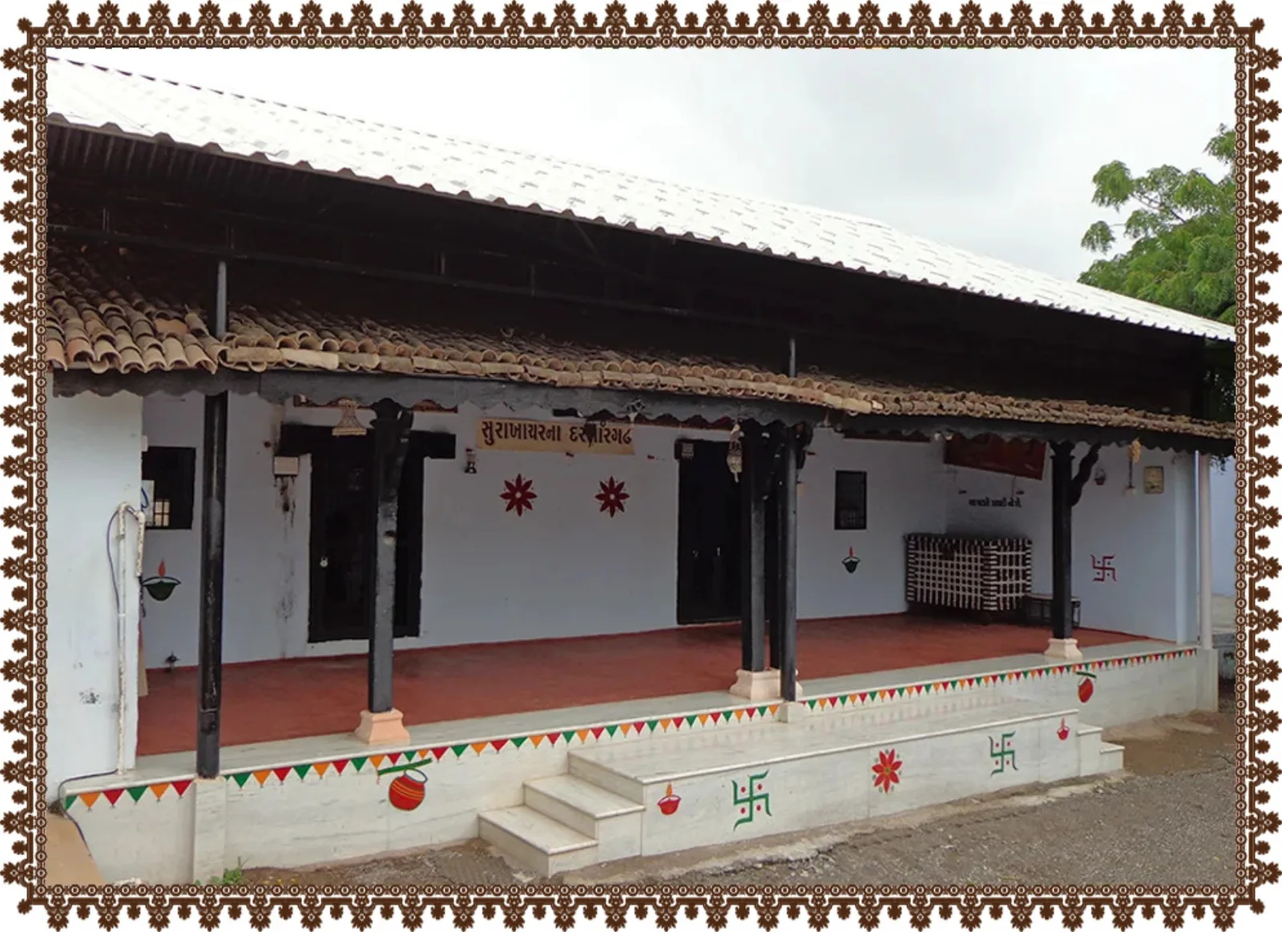
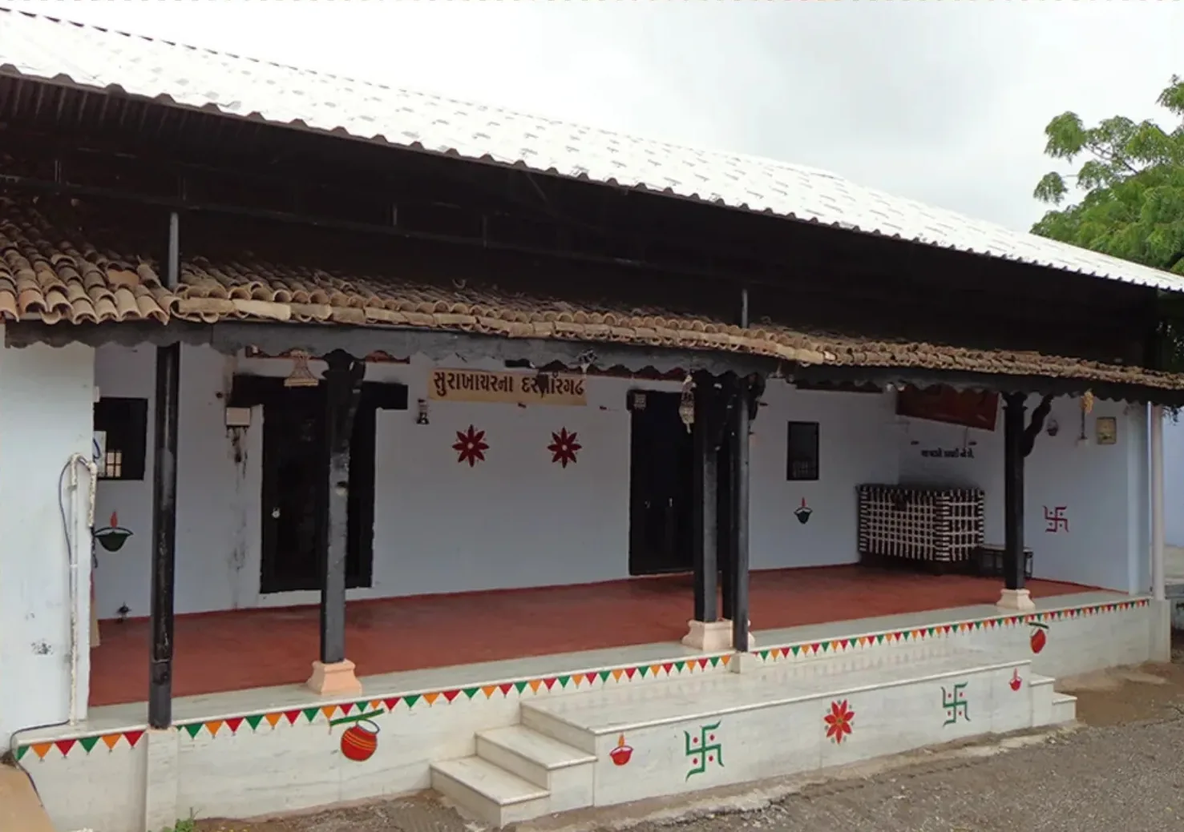
feat: 1.10 — cleaned Loya location image; AI image prompt guide

diff --git a/www/sw.js b/www/sw.js
@@ -1,4 +1,4 @@
-const CACHE_NAME = '1.100.0';
+const CACHE_NAME = '1.101.0';
 
 // ---- App shell (cached on install — blocks SW activation) -------------------
 const APP_SHELL = [

diff --git a/docs/image-prompts.md b/docs/image-prompts.md
@@ -1,0 +1,223 @@
+# Vachanamrut location images: AI remake guide
+
+Goal: replace the nine location images (one per prakaran) with one consistent painted set made in ChatGPT, so the app looks like a single illustrated book. Today they are a mix of photos, low-resolution scans and paintings in different styles.
+
+Scope: only the images in `www/images/vachanamrut-locations/`. The Partharo images, the facts-sheet images (mandirs, authors, seasons) and the app backgrounds are not covered here.
+
+## 1. Where these images are used
+
+- Each image is the header picture of its prakaran (section) page, shown full width and **cropped to at most 250 px high** (`.section-image`, `object-fit: cover`), so a wide landscape 3:2 image works best. The top and bottom edges get cut; keep the main subject in the middle 70%.
+- The mapping lives in two places: `www/assets/chapter-mappings.json` and the `sections.image` column of `www/assets/data/vachanamrut.db`. `www/sw.js` also pre-caches the files by name.
+- There is no separate image per individual Vachanamrut (1–262): all 262 discourses use their prakaran's image.
+
+## 2. What we have now
+
+| # | Prakaran | Discourses | File | What it is now | Problem |
+|---|---|---|---|---|---|
+| 1 | Gadhada I (ગઢડા પ્રથમ) | 78 discourses (1–78) | `gadhada-1.webp` | 1600×1067 photo of the neem tree and courtyard (509 KB) | Photo, not a painting |
+| 2 | Sarangpur (સારંગપુર) | 18 discourses (79–96) | `sarangpur.webp` | 1600×1174 painting, Maharaj on a yellow chair with sadhus writing (301 KB) | Closest to the target style |
+| 3 | Kariyani (કારિયાણી) | 12 discourses (97–108) | `kariyani.webp` | 1600×1067 photo of a rustic tiled verandah (276 KB) | Photo, no people |
+| 4 | Loya (લોયા) | 18 discourses (109–126) | `loya.webp` | 1600×1163 photo of a darbar house with a decorative border (191 KB) | Photo with a decorative border, no people |
+| 5 | Panchala (પંચાળા) | 7 discourses (127–133) | `panchala.jpg` | 680×510 photo of a modern mandir (116 KB, low resolution) | Low-res photo of a modern mandir |
+| 6 | Gadhada II (ગઢડા મધ્ય) | 67 discourses (134–200) | `gadhada-2.jpg` | 450×437 painting (64 KB, low resolution and almost square) | Very low resolution, almost square |
+| 7 | Vartal (વરતાલ) | 20 discourses (201–220) | `vadtal.jpg` | 900×900 photo of the golden-domed mandir from above (195 KB) | Photo, square crop |
+| 8 | Amdavad (અમદાવાદ) | 3 discourses (221–223) | `ahmedabad.jpg` | 500×326 painting (64 KB, low resolution) | Low resolution |
+| 9 | Gadhada III (ગઢડા અંત્ય) | 39 discourses (224–262) | `gadhada-3.webp` | 1600×1342 painting, Maharaj in white with scribes (338 KB, not 3:2) | Not 3:2, differs from the other Gadhada images |
+
+## 3. How to get a consistent set in ChatGPT
+
+1. Open **one new chat** just for this series. Use ChatGPT's image generation (a GPT-4o / GPT-5 class model with images on).
+2. **Upload `www/images/setup-art.webp`** (the painting behind the setup screen) and say: *"Use this painting as the style reference for every image in this chat. Reply 'ready'."* This is the look the app already has, so the new images will sit well with it.
+3. Generate **image 1 (Gadhada I) first** by pasting its prompt. Regenerate until you like the face of Shriji Maharaj, the neem tree and the courtyard. This is the anchor.
+4. For every next image, paste its prompt **in the same chat**. If Maharaj's face or clothes drift, add: *"Keep Shriji Maharaj's face, clothing and proportions exactly the same as the Gadhada I image."* Gadhada II and III should also say *"same courtyard and tree as Gadhada I"* (already in their prompts).
+5. If an image comes out wrong, ask for one change at a time (*"remove the text"*, *"make the light warmer"*, *"fewer people"*) rather than rewriting the prompt.
+6. Save each result as PNG, then send them to me. I will resize, convert to WebP (about 1600 px wide, under ~250 KB) and wire them into the app.
+
+Each prompt below is **self-contained** (style, characters and technical rules are repeated), so it also works if you paste it into a fresh chat. Where details are uncertain (exact architecture of a darbar), they are kept generic on purpose; correct them against your own reference photos if you want them more exact.
+
+### Style summary (for your reference)
+
+> A richly detailed traditional Indian devotional painting in the Swaminarayan tradition: semi-realistic gouache-and-oil look on canvas, soft visible brushwork, a warm golden-hour glow with a faint luminous haze, and a palette of turmeric-gold, saffron, vermilion red, deep teal and leaf green with cream-white clothing. Faces are calm, graceful and idealised, with large lotus-shaped eyes. Fine decorative detail (flower garlands, patterned turbans, carved wood, brass vessels). Painterly background with soft depth, no hard photographic edges. Not photorealistic, not a 3D render, not anime, not flat vector art.
+
+### Characters (identical in every prompt)
+
+> Shriji Maharaj (Bhagwan Swaminarayan) is a radiant, serene man in his late thirties, clean-shaven, with large lotus eyes, a gentle half-smile, a vertical sandalwood tilak with a round red chandlo, a tulsi mala and fresh white flower garlands around his neck, a white angarkha with a white-and-saffron pagh (turban) wrapped with a flower garland, and a soft golden glow around his head. Paramhansas (sadhus) wear plain saffron robes, a saffron upper cloth, tulsi malas and a tilak-chandlo; some have shaved heads, some a small saffron cloth around the head. Devotees (haribhakto) are Kathiawadi men in white angarkhas or kediyus and dhotis with colourful pagh (red, orange, pink, green) and moustaches; women, if shown, sit together at the side in colourful odhanis with their heads covered. The Khachar darbars (chieftains) wear a rich red or maroon turban and a white jama with folded hands. The year is about 1820 in rural Saurashtra, Gujarat: no modern objects, no electric wires, no plastic.
+
+## 4. The nine prompts
+
+### 1. Gadhada I (ગઢડા પ્રથમ): `gadhada-1.webp`
+
+- **Discourses:** 78 discourses (1–78)
+- **Theme:** Delivered at Dada Khachar's Darbar in Gadhada. Self-realization (Atmanishtha), the glory of God, methods to stabilise the mind.
+- **Now:** 1600×1067 photo of the neem tree and courtyard (509 KB)
+- **Note:** **Make this one first. It is the anchor image of the series** (same courtyard, tree and Maharaj reused for Gadhada II and III).
+
+```text
+Create a landscape 3:2 painting for a Vachanamrut reading app: Gadhada I.
+
+STYLE: A richly detailed traditional Indian devotional painting in the Swaminarayan tradition: semi-realistic gouache-and-oil look on canvas, soft visible brushwork, a warm golden-hour glow with a faint luminous haze, and a palette of turmeric-gold, saffron, vermilion red, deep teal and leaf green with cream-white clothing. Faces are calm, graceful and idealised, with large lotus-shaped eyes. Fine decorative detail (flower garlands, patterned turbans, carved wood, brass vessels). Painterly background with soft depth, no hard photographic edges. Not photorealistic, not a 3D render, not anime, not flat vector art.
+
+CHARACTERS (keep them identical in every image of this series): Shriji Maharaj (Bhagwan Swaminarayan) is a radiant, serene man in his late thirties, clean-shaven, with large lotus eyes, a gentle half-smile, a vertical sandalwood tilak with a round red chandlo, a tulsi mala and fresh white flower garlands around his neck, a white angarkha with a white-and-saffron pagh (turban) wrapped with a flower garland, and a soft golden glow around his head. Paramhansas (sadhus) wear plain saffron robes, a saffron upper cloth, tulsi malas and a tilak-chandlo; some have shaved heads, some a small saffron cloth around the head. Devotees (haribhakto) are Kathiawadi men in white angarkhas or kediyus and dhotis with colourful pagh (red, orange, pink, green) and moustaches; women, if shown, sit together at the side in colourful odhanis with their heads covered. The Khachar darbars (chieftains) wear a rich red or maroon turban and a white jama with folded hands. The year is about 1820 in rural Saurashtra, Gujarat: no modern objects, no electric wires, no plastic.
+
+SCENE: Early morning in the open courtyard (chowk) of Dada Khachar's darbar in Gadhada. A huge ancient neem tree with a raised whitewashed stone platform around its trunk fills the upper half of the frame, its branches filled with sunlit leaves and soft sun-rays falling through. Behind it, a low whitewashed building with a tiled roof, a wooden-pillared verandah and arched doorways. Shriji Maharaj sits on a wooden cot (khat) with a bolster under the tree, one hand raised gently in teaching. A small, attentive group of saffron-robed paramhansas and turbaned devotees sits on the ground facing him, a few with folded hands. A pair of pigeons on the wall, dust motes in the light. Mood: fresh, quiet, golden morning.
+
+TECHNICAL: Landscape 3:2 aspect ratio (1536 x 1024). Keep the main subject (Shriji Maharaj and the central group) inside the middle 70% of the frame, because the app crops the top and bottom edges. No text, no letters, no Devanagari or Gujarati script, no signature, no watermark, no border or frame. Correct hands and faces, one Shriji Maharaj only.
+```
+
+### 2. Sarangpur (સારંગપુર): `sarangpur.webp`
+
+- **Discourses:** 18 discourses (79–96)
+- **Theme:** Spoken at Jiva Khachar's Darbar. The glory of the Sant, abandoning ego, ways to remove worldly desires.
+- **Now:** 1600×1174 painting, Maharaj on a yellow chair with sadhus writing (301 KB)
+- **Note:** The current painting is close to the target style: keep the idea of sadhus writing near Maharaj.
+
+```text
+Create a landscape 3:2 painting for a Vachanamrut reading app: Sarangpur.
+
+STYLE: A richly detailed traditional Indian devotional painting in the Swaminarayan tradition: semi-realistic gouache-and-oil look on canvas, soft visible brushwork, a warm golden-hour glow with a faint luminous haze, and a palette of turmeric-gold, saffron, vermilion red, deep teal and leaf green with cream-white clothing. Faces are calm, graceful and idealised, with large lotus-shaped eyes. Fine decorative detail (flower garlands, patterned turbans, carved wood, brass vessels). Painterly background with soft depth, no hard photographic edges. Not photorealistic, not a 3D render, not anime, not flat vector art.
+
+CHARACTERS (keep them identical in every image of this series): Shriji Maharaj (Bhagwan Swaminarayan) is a radiant, serene man in his late thirties, clean-shaven, with large lotus eyes, a gentle half-smile, a vertical sandalwood tilak with a round red chandlo, a tulsi mala and fresh white flower garlands around his neck, a white angarkha with a white-and-saffron pagh (turban) wrapped with a flower garland, and a soft golden glow around his head. Paramhansas (sadhus) wear plain saffron robes, a saffron upper cloth, tulsi malas and a tilak-chandlo; some have shaved heads, some a small saffron cloth around the head. Devotees (haribhakto) are Kathiawadi men in white angarkhas or kediyus and dhotis with colourful pagh (red, orange, pink, green) and moustaches; women, if shown, sit together at the side in colourful odhanis with their heads covered. The Khachar darbars (chieftains) wear a rich red or maroon turban and a white jama with folded hands. The year is about 1820 in rural Saurashtra, Gujarat: no modern objects, no electric wires, no plastic.
+
+SCENE: Late afternoon in the shaded courtyard of Jiva Khachar's darbar in Sarangpur. Shriji Maharaj sits on an ornate gilded wooden seat with a golden-yellow cushion, leaning slightly forward as he speaks. Four or five saffron-robed paramhansas sit close around him on a rug, writing the discourse on long manuscript sheets resting on small wooden desks. Jiva Khachar stands a little behind with folded hands. A mango tree casts soft dappled shade on the left; a whitewashed wall with a carved wooden door at the back. Warm amber light, intimate and scholarly mood.
+
+TECHNICAL: Landscape 3:2 aspect ratio (1536 x 1024). Keep the main subject (Shriji Maharaj and the central group) inside the middle 70% of the frame, because the app crops the top and bottom edges. No text, no letters, no Devanagari or Gujarati script, no signature, no watermark, no border or frame. Correct hands and faces, one Shriji Maharaj only.
+```
+
+### 3. Kariyani (કારિયાણી): `kariyani.webp`
+
+- **Discourses:** 12 discourses (97–108)
+- **Theme:** Delivered at Vasta Khachar's Darbar. Affection for the manifest form of God, distinguishing the soul from the body.
+- **Now:** 1600×1067 photo of a rustic tiled verandah (276 KB)
+- **Note:** The old image has no people. The new one keeps the rustic verandah but puts Maharaj and devotees in it.
+
+```text
+Create a landscape 3:2 painting for a Vachanamrut reading app: Kariyani.
+
+STYLE: A richly detailed traditional Indian devotional painting in the Swaminarayan tradition: semi-realistic gouache-and-oil look on canvas, soft visible brushwork, a warm golden-hour glow with a faint luminous haze, and a palette of turmeric-gold, saffron, vermilion red, deep teal and leaf green with cream-white clothing. Faces are calm, graceful and idealised, with large lotus-shaped eyes. Fine decorative detail (flower garlands, patterned turbans, carved wood, brass vessels). Painterly background with soft depth, no hard photographic edges. Not photorealistic, not a 3D render, not anime, not flat vector art.
+
+CHARACTERS (keep them identical in every image of this series): Shriji Maharaj (Bhagwan Swaminarayan) is a radiant, serene man in his late thirties, clean-shaven, with large lotus eyes, a gentle half-smile, a vertical sandalwood tilak with a round red chandlo, a tulsi mala and fresh white flower garlands around his neck, a white angarkha with a white-and-saffron pagh (turban) wrapped with a flower garland, and a soft golden glow around his head. Paramhansas (sadhus) wear plain saffron robes, a saffron upper cloth, tulsi malas and a tilak-chandlo; some have shaved heads, some a small saffron cloth around the head. Devotees (haribhakto) are Kathiawadi men in white angarkhas or kediyus and dhotis with colourful pagh (red, orange, pink, green) and moustaches; women, if shown, sit together at the side in colourful odhanis with their heads covered. The Khachar darbars (chieftains) wear a rich red or maroon turban and a white jama with folded hands. The year is about 1820 in rural Saurashtra, Gujarat: no modern objects, no electric wires, no plastic.
+
+SCENE: Warm afternoon outside a long, low, rustic village house with an old wooden-beamed tiled roof and a raised stone plinth verandah (otla) with a red-painted wooden railing and a few broad stone steps. Shriji Maharaj sits on a simple cot at the edge of the verandah, with devotees seated on the steps and the packed-earth courtyard below him, looking up at him with love. Vasta Khachar sits closest with folded hands. A bullock and a couple of cows rest under a tree at the side, marigold garlands hang from a rope across the verandah. Soft late-afternoon sun, gentle, homely, affectionate mood.
+
+TECHNICAL: Landscape 3:2 aspect ratio (1536 x 1024). Keep the main subject (Shriji Maharaj and the central group) inside the middle 70% of the frame, because the app crops the top and bottom edges. No text, no letters, no Devanagari or Gujarati script, no signature, no watermark, no border or frame. Correct hands and faces, one Shriji Maharaj only.
+```
+
+### 4. Loya (લોયા): `loya.webp`
+
+- **Discourses:** 18 discourses (109–126)
+- **Theme:** Spoken at Sura Khachar's Darbar, often during the Shakotsav festival. The firmness of Upasana (worship) and the supremacy of God's form.
+- **Now:** 1600×1163 photo of a darbar house with a decorative border (191 KB)
+- **Note:** Festive image. Colour accents (red, orange, green) are allowed to be a little stronger here.
+
+```text
+Create a landscape 3:2 painting for a Vachanamrut reading app: Loya.
+
+STYLE: A richly detailed traditional Indian devotional painting in the Swaminarayan tradition: semi-realistic gouache-and-oil look on canvas, soft visible brushwork, a warm golden-hour glow with a faint luminous haze, and a palette of turmeric-gold, saffron, vermilion red, deep teal and leaf green with cream-white clothing. Faces are calm, graceful and idealised, with large lotus-shaped eyes. Fine decorative detail (flower garlands, patterned turbans, carved wood, brass vessels). Painterly background with soft depth, no hard photographic edges. Not photorealistic, not a 3D render, not anime, not flat vector art.
+
+CHARACTERS (keep them identical in every image of this series): Shriji Maharaj (Bhagwan Swaminarayan) is a radiant, serene man in his late thirties, clean-shaven, with large lotus eyes, a gentle half-smile, a vertical sandalwood tilak with a round red chandlo, a tulsi mala and fresh white flower garlands around his neck, a white angarkha with a white-and-saffron pagh (turban) wrapped with a flower garland, and a soft golden glow around his head. Paramhansas (sadhus) wear plain saffron robes, a saffron upper cloth, tulsi malas and a tilak-chandlo; some have shaved heads, some a small saffron cloth around the head. Devotees (haribhakto) are Kathiawadi men in white angarkhas or kediyus and dhotis with colourful pagh (red, orange, pink, green) and moustaches; women, if shown, sit together at the side in colourful odhanis with their heads covered. The Khachar darbars (chieftains) wear a rich red or maroon turban and a white jama with folded hands. The year is about 1820 in rural Saurashtra, Gujarat: no modern objects, no electric wires, no plastic.
+
+SCENE: Bright festive morning in the whitewashed courtyard of Sura Khachar's darbar in Loya during the Shakotsav (festival of vegetables). The tiled verandah is decorated with mango-leaf torans, marigold garlands and red swastikas and handprints on the white walls. In the foreground, saffron-robed sadhus and devotees cook with large copper cauldrons over wood fires, with baskets of vegetables, a few children watching. In the middle ground, Shriji Maharaj sits on a decorated cot under a small canopy, watching the festival with a gentle smile; devotees seated around him with folded hands. Joyful, celebratory mood with rising smoke catching the sunlight.
+
+TECHNICAL: Landscape 3:2 aspect ratio (1536 x 1024). Keep the main subject (Shriji Maharaj and the central group) inside the middle 70% of the frame, because the app crops the top and bottom edges. No text, no letters, no Devanagari or Gujarati script, no signature, no watermark, no border or frame. Correct hands and faces, one Shriji Maharaj only.
+```
+
+### 5. Panchala (પંચાળા): `panchala.jpg`
+
+- **Discourses:** 7 discourses (127–133)
+- **Theme:** Delivered at Jhinabhai's Darbar. Single-minded devotion, Nishkam Dharma (selfless duty), the characteristics of a chaste devotee.
+- **Now:** 680×510 photo of a modern mandir (116 KB, low resolution)
+- **Note:** Evening scene. This is the "lamp-lit" image of the series, so it sits well between the bright ones.
+
+```text
+Create a landscape 3:2 painting for a Vachanamrut reading app: Panchala.
+
+STYLE: A richly detailed traditional Indian devotional painting in the Swaminarayan tradition: semi-realistic gouache-and-oil look on canvas, soft visible brushwork, a warm golden-hour glow with a faint luminous haze, and a palette of turmeric-gold, saffron, vermilion red, deep teal and leaf green with cream-white clothing. Faces are calm, graceful and idealised, with large lotus-shaped eyes. Fine decorative detail (flower garlands, patterned turbans, carved wood, brass vessels). Painterly background with soft depth, no hard photographic edges. Not photorealistic, not a 3D render, not anime, not flat vector art.
+
+CHARACTERS (keep them identical in every image of this series): Shriji Maharaj (Bhagwan Swaminarayan) is a radiant, serene man in his late thirties, clean-shaven, with large lotus eyes, a gentle half-smile, a vertical sandalwood tilak with a round red chandlo, a tulsi mala and fresh white flower garlands around his neck, a white angarkha with a white-and-saffron pagh (turban) wrapped with a flower garland, and a soft golden glow around his head. Paramhansas (sadhus) wear plain saffron robes, a saffron upper cloth, tulsi malas and a tilak-chandlo; some have shaved heads, some a small saffron cloth around the head. Devotees (haribhakto) are Kathiawadi men in white angarkhas or kediyus and dhotis with colourful pagh (red, orange, pink, green) and moustaches; women, if shown, sit together at the side in colourful odhanis with their heads covered. The Khachar darbars (chieftains) wear a rich red or maroon turban and a white jama with folded hands. The year is about 1820 in rural Saurashtra, Gujarat: no modern objects, no electric wires, no plastic.
+
+SCENE: Twilight in the courtyard of Jhinabhai's darbar in Panchala. The sky is deep teal fading to a thin band of orange at the horizon, with the first stars. Rows of clay oil lamps (diyas) glow along the edge of the courtyard and on the verandah. Shriji Maharaj sits on a cot in the lamp-light, the warm glow on his face and white clothes. A circle of paramhansas and devotees sits close around him, absorbed in listening. Jhinabhai Darbar stands humbly with folded hands. In the far distance, the silhouette of a small stone temple spire against the sky. Calm, inward, devotional mood.
+
+TECHNICAL: Landscape 3:2 aspect ratio (1536 x 1024). Keep the main subject (Shriji Maharaj and the central group) inside the middle 70% of the frame, because the app crops the top and bottom edges. No text, no letters, no Devanagari or Gujarati script, no signature, no watermark, no border or frame. Correct hands and faces, one Shriji Maharaj only.
+```
+
+### 6. Gadhada II (ગઢડા મધ્ય): `gadhada-2.jpg`
+
+- **Discourses:** 67 discourses (134–200)
+- **Theme:** The middle section at Gadhada. Devotion (Bhakti), God's incarnations and divine actions, the life of a true devotee.
+- **Now:** 450×437 painting (64 KB, low resolution and almost square)
+- **Note:** Same courtyard and neem tree as Gadhada I, seen from another angle, with a bigger and more joyful sabha.
+
+```text
+Create a landscape 3:2 painting for a Vachanamrut reading app: Gadhada II.
+
+STYLE: A richly detailed traditional Indian devotional painting in the Swaminarayan tradition: semi-realistic gouache-and-oil look on canvas, soft visible brushwork, a warm golden-hour glow with a faint luminous haze, and a palette of turmeric-gold, saffron, vermilion red, deep teal and leaf green with cream-white clothing. Faces are calm, graceful and idealised, with large lotus-shaped eyes. Fine decorative detail (flower garlands, patterned turbans, carved wood, brass vessels). Painterly background with soft depth, no hard photographic edges. Not photorealistic, not a 3D render, not anime, not flat vector art.
+
+CHARACTERS (keep them identical in every image of this series): Shriji Maharaj (Bhagwan Swaminarayan) is a radiant, serene man in his late thirties, clean-shaven, with large lotus eyes, a gentle half-smile, a vertical sandalwood tilak with a round red chandlo, a tulsi mala and fresh white flower garlands around his neck, a white angarkha with a white-and-saffron pagh (turban) wrapped with a flower garland, and a soft golden glow around his head. Paramhansas (sadhus) wear plain saffron robes, a saffron upper cloth, tulsi malas and a tilak-chandlo; some have shaved heads, some a small saffron cloth around the head. Devotees (haribhakto) are Kathiawadi men in white angarkhas or kediyus and dhotis with colourful pagh (red, orange, pink, green) and moustaches; women, if shown, sit together at the side in colourful odhanis with their heads covered. The Khachar darbars (chieftains) wear a rich red or maroon turban and a white jama with folded hands. The year is about 1820 in rural Saurashtra, Gujarat: no modern objects, no electric wires, no plastic.
+
+SCENE: Mid-morning in Dada Khachar's darbar at Gadhada, the same courtyard and ancient neem tree as the Gadhada I image, seen from a slightly different angle on the left side. Shriji Maharaj sits on a decorated dais under the tree with garlands of flowers hanging beside him. In front of him is a large rangoli of coloured flower petals. A big sabha fills the courtyard: rows of saffron-robed paramhansas on one side and colourful turbaned devotees on the other, some with folded hands, some singing, one playing a tanpura. A pink-tiled-roof building is visible behind. Bright, celebratory, devotional mood.
+
+TECHNICAL: Landscape 3:2 aspect ratio (1536 x 1024). Keep the main subject (Shriji Maharaj and the central group) inside the middle 70% of the frame, because the app crops the top and bottom edges. No text, no letters, no Devanagari or Gujarati script, no signature, no watermark, no border or frame. Correct hands and faces, one Shriji Maharaj only.
+```
+
+### 7. Vartal (વરતાલ): `vadtal.jpg`
+
+- **Discourses:** 20 discourses (201–220)
+- **Theme:** Spoken in the presence of Shri Lakshminarayan Dev in Vartal. The four pillars of Ekantik Dharma: Dharma, Jnana, Vairagya, Bhakti.
+- **Now:** 900×900 photo of the golden-domed mandir from above (195 KB)
+- **Note:** This is the "grand temple" image. Architecture stays in the same painted style, not a photo.
+
+```text
+Create a landscape 3:2 painting for a Vachanamrut reading app: Vartal.
+
+STYLE: A richly detailed traditional Indian devotional painting in the Swaminarayan tradition: semi-realistic gouache-and-oil look on canvas, soft visible brushwork, a warm golden-hour glow with a faint luminous haze, and a palette of turmeric-gold, saffron, vermilion red, deep teal and leaf green with cream-white clothing. Faces are calm, graceful and idealised, with large lotus-shaped eyes. Fine decorative detail (flower garlands, patterned turbans, carved wood, brass vessels). Painterly background with soft depth, no hard photographic edges. Not photorealistic, not a 3D render, not anime, not flat vector art.
+
+CHARACTERS (keep them identical in every image of this series): Shriji Maharaj (Bhagwan Swaminarayan) is a radiant, serene man in his late thirties, clean-shaven, with large lotus eyes, a gentle half-smile, a vertical sandalwood tilak with a round red chandlo, a tulsi mala and fresh white flower garlands around his neck, a white angarkha with a white-and-saffron pagh (turban) wrapped with a flower garland, and a soft golden glow around his head. Paramhansas (sadhus) wear plain saffron robes, a saffron upper cloth, tulsi malas and a tilak-chandlo; some have shaved heads, some a small saffron cloth around the head. Devotees (haribhakto) are Kathiawadi men in white angarkhas or kediyus and dhotis with colourful pagh (red, orange, pink, green) and moustaches; women, if shown, sit together at the side in colourful odhanis with their heads covered. The Khachar darbars (chieftains) wear a rich red or maroon turban and a white jama with folded hands. The year is about 1820 in rural Saurashtra, Gujarat: no modern objects, no electric wires, no plastic.
+
+SCENE: Sunrise at the Vartal Lakshminarayan Dev mandir, painted as a grand traditional Gujarati stone temple with a tall central spire and several smaller carved shikhars with golden tips, fluttering saffron flags, and intricately carved pillars and arches, standing at the top of a wide stone staircase. In the foreground courtyard, Shriji Maharaj sits on a raised seat in front of the temple, speaking to a large sabha of paramhansas and devotees who sit in neat rows and listen with folded hands. A few devotees carry brass aarti plates up the steps. Soft golden sky with a few rose-coloured clouds. Majestic, uplifting mood.
+
+TECHNICAL: Landscape 3:2 aspect ratio (1536 x 1024). Keep the main subject (Shriji Maharaj and the central group) inside the middle 70% of the frame, because the app crops the top and bottom edges. No text, no letters, no Devanagari or Gujarati script, no signature, no watermark, no border or frame. Correct hands and faces, one Shriji Maharaj only.
+```
+
+### 8. Amdavad (અમદાવાદ): `ahmedabad.jpg`
+
+- **Discourses:** 3 discourses (221–223)
+- **Theme:** Short, precise discourses in Amdavad: keeping the mind constantly engaged in God and staying detached from worldly life.
+- **Now:** 500×326 painting (64 KB, low resolution)
+- **Note:** A very small section. The scene is intimate and meditative, with the old Ahmedabad (pol) wooden architecture.
+
+```text
+Create a landscape 3:2 painting for a Vachanamrut reading app: Amdavad.
+
+STYLE: A richly detailed traditional Indian devotional painting in the Swaminarayan tradition: semi-realistic gouache-and-oil look on canvas, soft visible brushwork, a warm golden-hour glow with a faint luminous haze, and a palette of turmeric-gold, saffron, vermilion red, deep teal and leaf green with cream-white clothing. Faces are calm, graceful and idealised, with large lotus-shaped eyes. Fine decorative detail (flower garlands, patterned turbans, carved wood, brass vessels). Painterly background with soft depth, no hard photographic edges. Not photorealistic, not a 3D render, not anime, not flat vector art.
+
+CHARACTERS (keep them identical in every image of this series): Shriji Maharaj (Bhagwan Swaminarayan) is a radiant, serene man in his late thirties, clean-shaven, with large lotus eyes, a gentle half-smile, a vertical sandalwood tilak with a round red chandlo, a tulsi mala and fresh white flower garlands around his neck, a white angarkha with a white-and-saffron pagh (turban) wrapped with a flower garland, and a soft golden glow around his head. Paramhansas (sadhus) wear plain saffron robes, a saffron upper cloth, tulsi malas and a tilak-chandlo; some have shaved heads, some a small saffron cloth around the head. Devotees (haribhakto) are Kathiawadi men in white angarkhas or kediyus and dhotis with colourful pagh (red, orange, pink, green) and moustaches; women, if shown, sit together at the side in colourful odhanis with their heads covered. The Khachar darbars (chieftains) wear a rich red or maroon turban and a white jama with folded hands. The year is about 1820 in rural Saurashtra, Gujarat: no modern objects, no electric wires, no plastic.
+
+SCENE: Evening in the courtyard of the Ahmedabad Swaminarayan mandir, in the old-city (pol) style: tall intricately carved wooden balconies, jharokhas and lattice windows in warm brown wood on the upper floors, and a whitewashed courtyard below with a large neem tree. Shriji Maharaj sits on a decorated seat under a small cloth canopy, his eyes soft and his expression deeply peaceful. Paramhansas sit in a semicircle; one plays a mridanga and another small brass cymbals (kartal), others sit with eyes closed in meditation. A few devotees stand listening in the carved doorways. Warm lantern light beginning to appear. Quiet, absorbed mood.
+
+TECHNICAL: Landscape 3:2 aspect ratio (1536 x 1024). Keep the main subject (Shriji Maharaj and the central group) inside the middle 70% of the frame, because the app crops the top and bottom edges. No text, no letters, no Devanagari or Gujarati script, no signature, no watermark, no border or frame. Correct hands and faces, one Shriji Maharaj only.
+```
+
+### 9. Gadhada III (ગઢડા અંત્ય): `gadhada-3.webp`
+
+- **Discourses:** 39 discourses (224–262)
+- **Theme:** The final section at Gadhada. The essence of Satsang, the true glory of God and the Saint, subtle principles of liberation.
+- **Now:** 1600×1342 painting, Maharaj in white with scribes (338 KB, not 3:2)
+- **Note:** The closing image of the series: same courtyard and tree, quieter palette (whites, saffron, soft gold), and a more spiritual atmosphere.
+
+```text
+Create a landscape 3:2 painting for a Vachanamrut reading app: Gadhada III.
+
+STYLE: A richly detailed traditional Indian devotional painting in the Swaminarayan tradition: semi-realistic gouache-and-oil look on canvas, soft visible brushwork, a warm golden-hour glow with a faint luminous haze, and a palette of turmeric-gold, saffron, vermilion red, deep teal and leaf green with cream-white clothing. Faces are calm, graceful and idealised, with large lotus-shaped eyes. Fine decorative detail (flower garlands, patterned turbans, carved wood, brass vessels). Painterly background with soft depth, no hard photographic edges. Not photorealistic, not a 3D render, not anime, not flat vector art.
+
+CHARACTERS (keep them identical in every image of this series): Shriji Maharaj (Bhagwan Swaminarayan) is a radiant, serene man in his late thirties, clean-shaven, with large lotus eyes, a gentle half-smile, a vertical sandalwood tilak with a round red chandlo, a tulsi mala and fresh white flower garlands around his neck, a white angarkha with a white-and-saffron pagh (turban) wrapped with a flower garland, and a soft golden glow around his head. Paramhansas (sadhus) wear plain saffron robes, a saffron upper cloth, tulsi malas and a tilak-chandlo; some have shaved heads, some a small saffron cloth around the head. Devotees (haribhakto) are Kathiawadi men in white angarkhas or kediyus and dhotis with colourful pagh (red, orange, pink, green) and moustaches; women, if shown, sit together at the side in colourful odhanis with their heads covered. The Khachar darbars (chieftains) wear a rich red or maroon turban and a white jama with folded hands. The year is about 1820 in rural Saurashtra, Gujarat: no modern objects, no electric wires, no plastic.
+
+SCENE: Soft late afternoon in Dada Khachar's darbar at Gadhada, the same courtyard and neem tree as in the Gadhada I and II images, now calm and nearly silent. Shriji Maharaj wears plain white clothes with a simple white pagh and sits upright on a cot beneath the tree, a subtle golden aura around him, his gaze directed at the viewer with deep compassion. Paramhansas sit on rugs at small wooden writing desks to his right, recording his words on manuscript sheets, a few devotees seated behind them with folded hands. The light is soft and golden, with long gentle shadows across the packed-earth courtyard. Serene, final, timeless mood.
+
+TECHNICAL: Landscape 3:2 aspect ratio (1536 x 1024). Keep the main subject (Shriji Maharaj and the central group) inside the middle 70% of the frame, because the app crops the top and bottom edges. No text, no letters, no Devanagari or Gujarati script, no signature, no watermark, no border or frame. Correct hands and faces, one Shriji Maharaj only.
+```
+
+## 5. After you generate them
+
+- Send me the PNGs named by slug (`gadhada-1.png`, `sarangpur.png`, `kariyani.png`, `loya.png`, `panchala.png`, `gadhada-2.png`, `vadtal.png`, `ahmedabad.png`, `gadhada-3.png`).
+- I will convert them to WebP (`cwebp -q 82 -resize 1600 0`), replace the files, and where a name changes from `.jpg` to `.webp` (panchala, gadhada-2, vadtal, ahmedabad) update `chapter-mappings.json`, the `sections` table in `vachanamrut.db` and the list in `sw.js`, then bump the cache version.
+- Check list before sending: same Shriji Maharaj in all nine, no text or watermark in any image, landscape 3:2, main subject not at the very top or bottom edge, warm golden overall tone so the set matches the app's gold and red.

diff --git a/docs/features.md b/docs/features.md
@@ -47,3 +47,4 @@ Living tracker. Status: ✅ shipped · 🚧 in progress · 📋 planned · 💡 
 | 1.7 | 8 | 2026-10-20 | dark mode, glass bar |
 | 1.8 | 9 | 2026-10-21 | type, split bar, Notes page, redesigned facts, Audio page (waves dock), background audio, web/PWA download-all |
 | 1.9 | 10 | 2026-10-21 | portrait lock, new setup flow, glass reading buttons, softer glass, smaller language switch |
+| 1.10 | 11 | 2026-10-21 | cleaned Loya location image (no border) |
